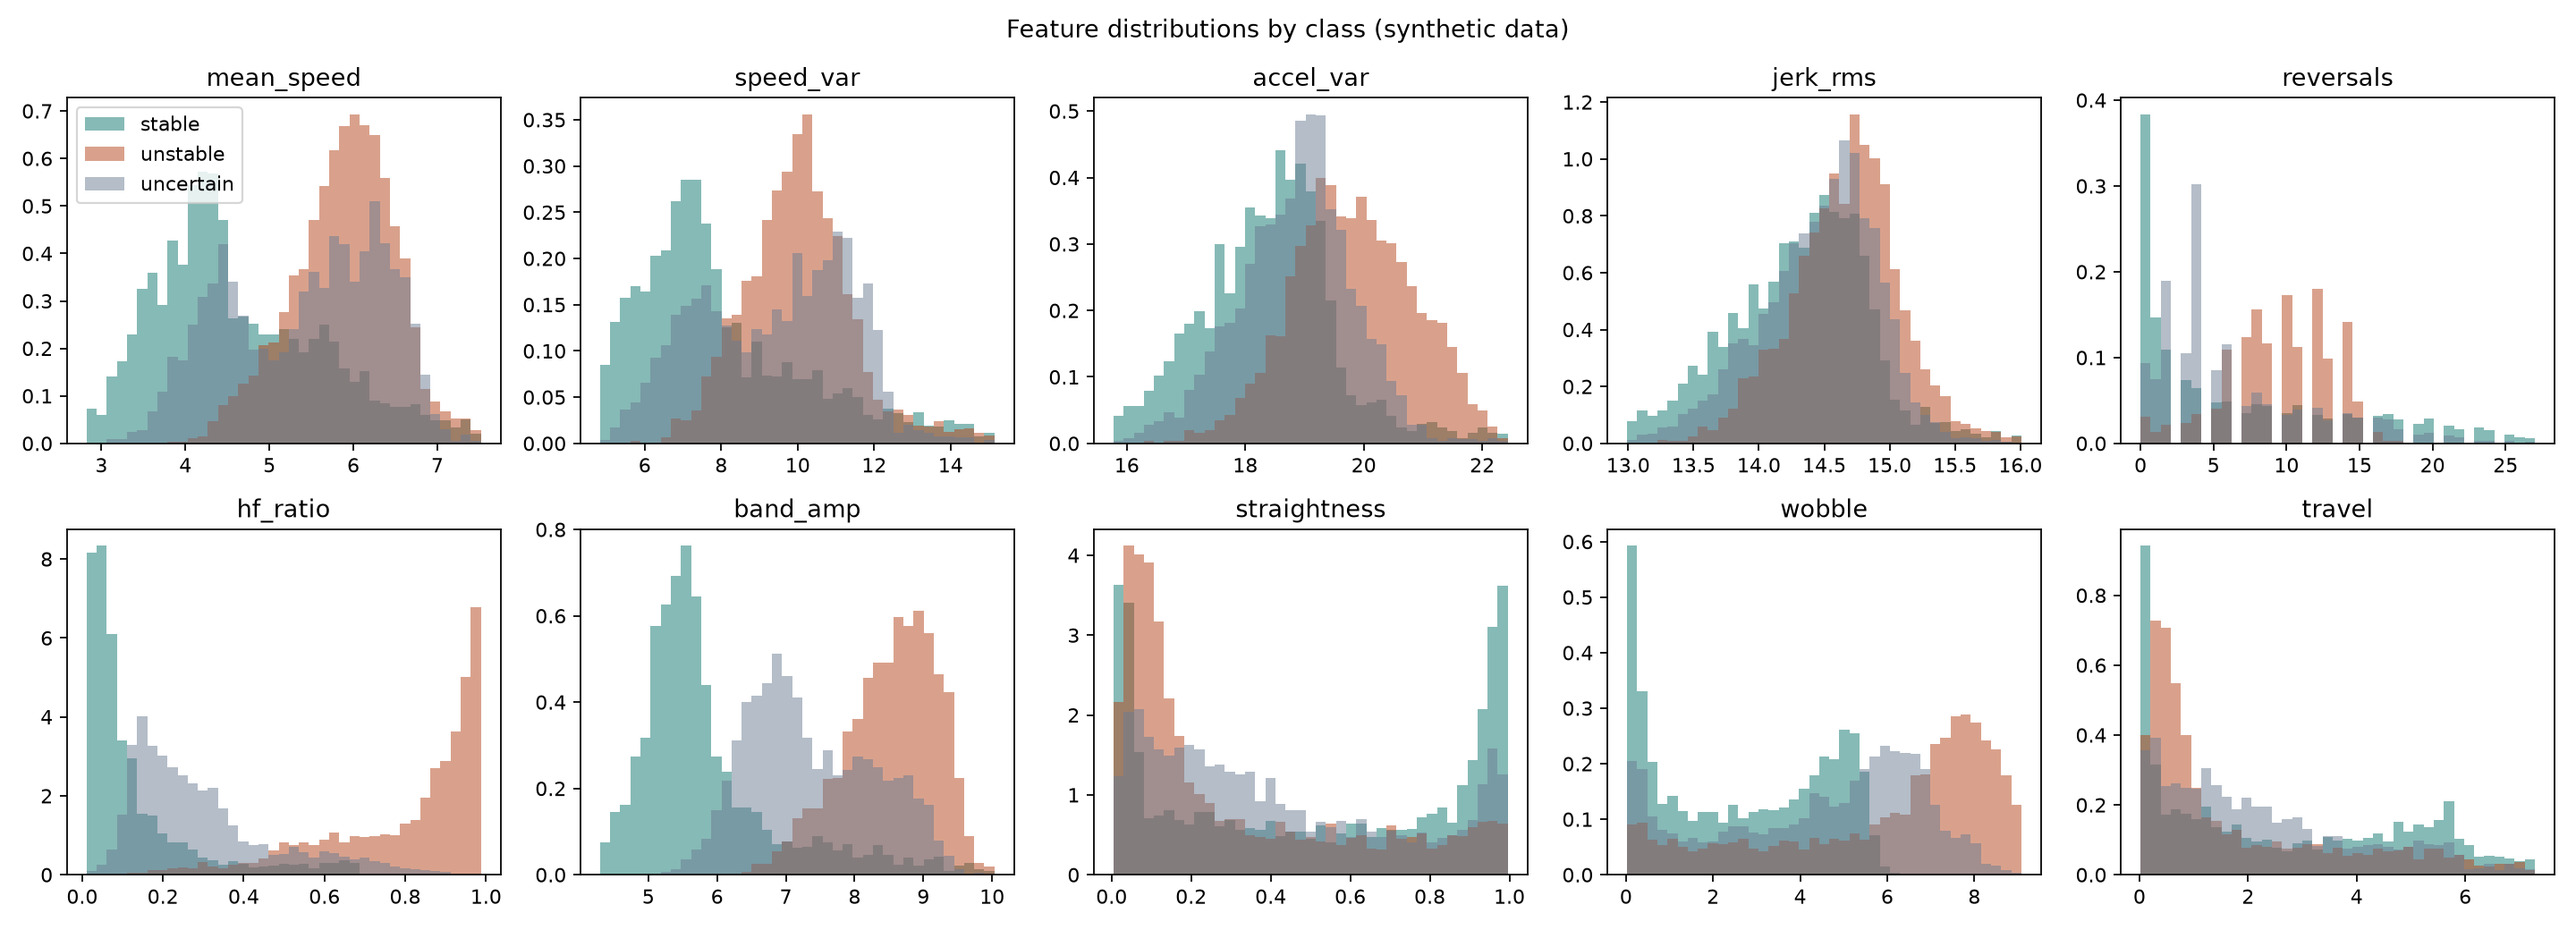
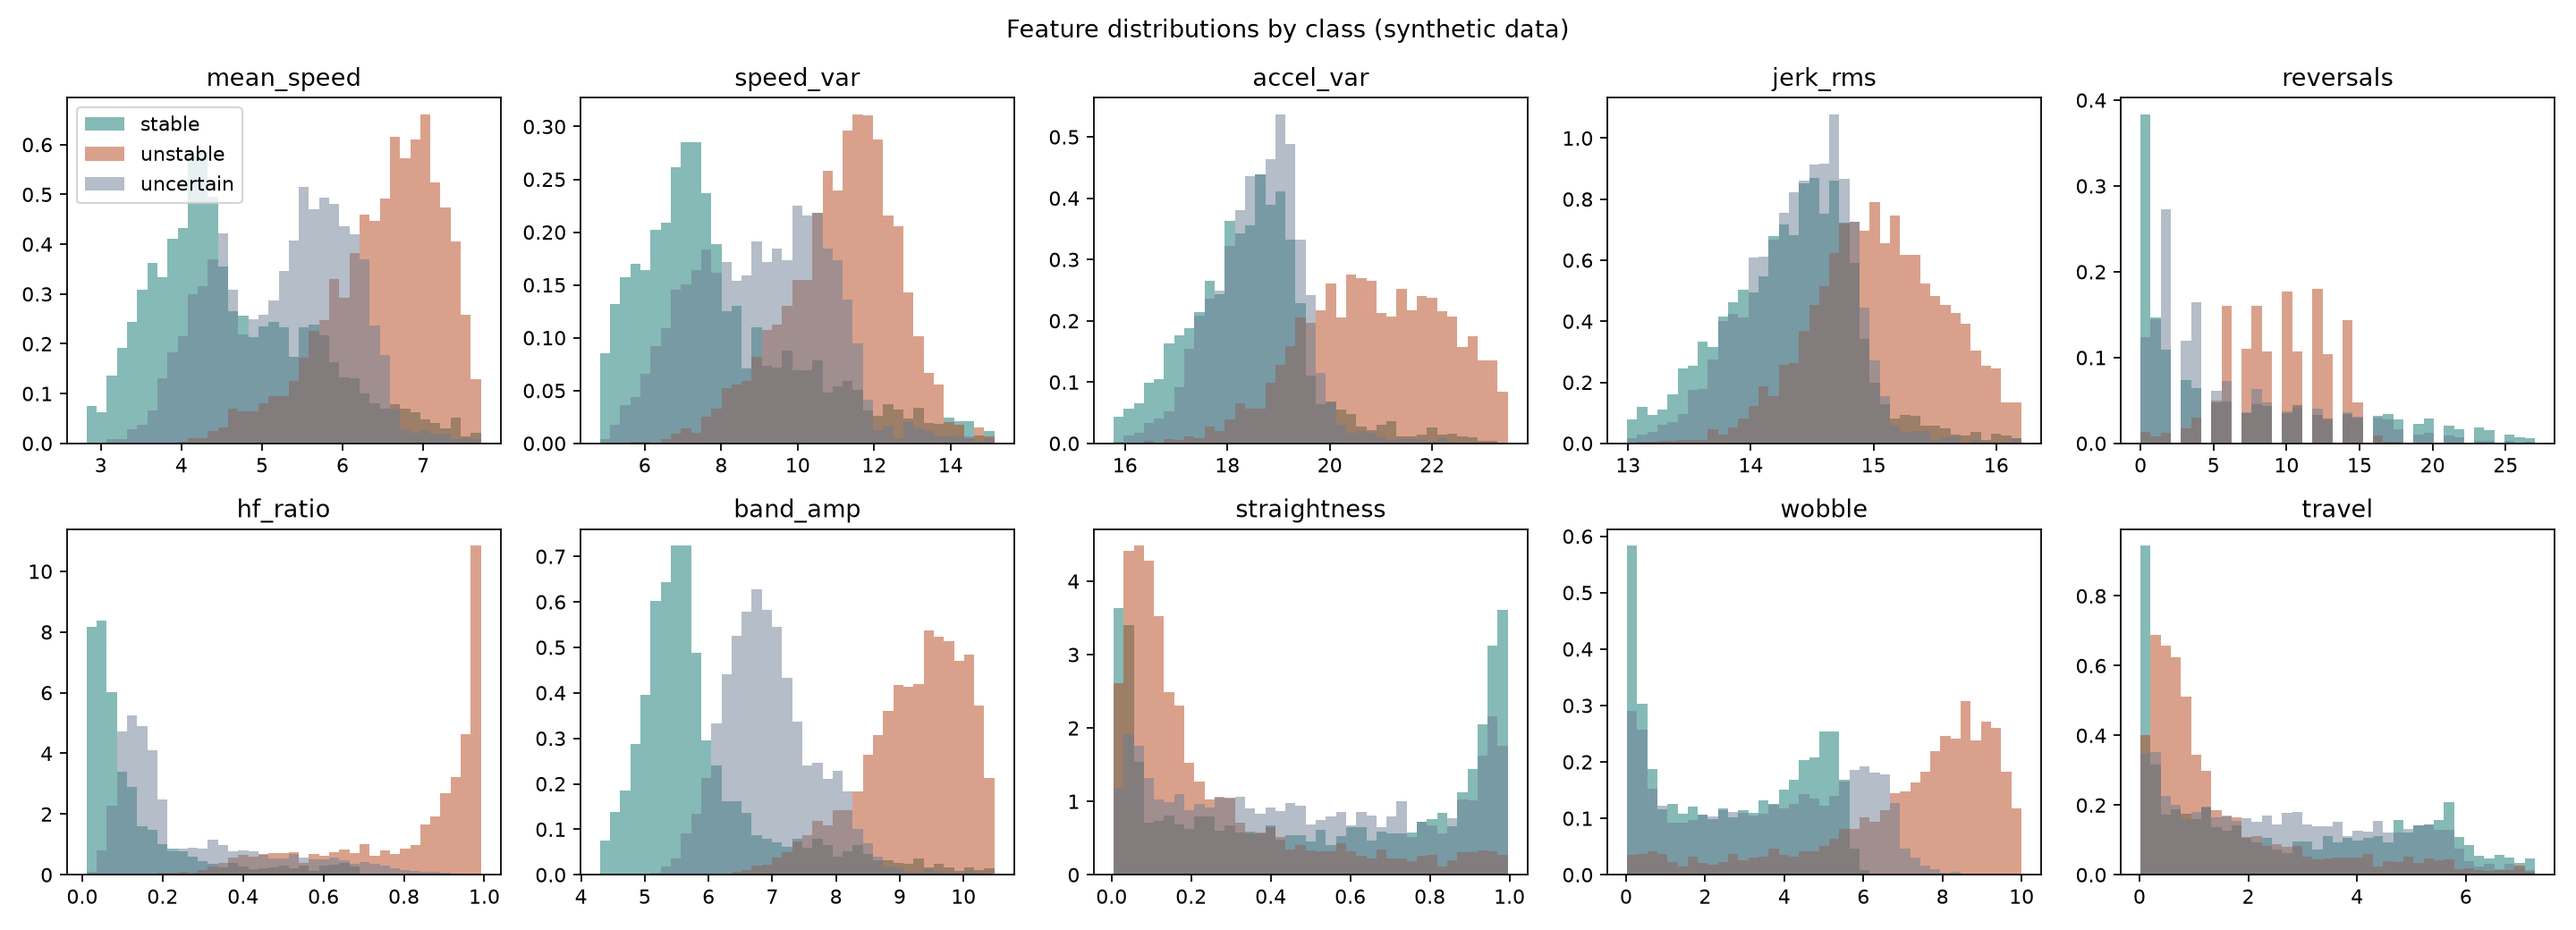
Stronger smoothing for big, sharp movements: straightness-gated 200 ms override, lower filter speed sensitivity, stronger medium level, model trained on shakes up to 50 px

diff --git a/content/controller.js b/content/controller.js
@@ -10,14 +10,14 @@
 //      and stay there for 400 ms. So strength doesn't flicker on and off.
 //   2. Slew limits: strength rises fast (~150 ms to full) when a shake starts,
 //      and falls gently (~600 ms) when it stops, so the cursor never "jumps".
-//   3. Responsiveness override: fast movement in ONE direction (a deliberate
-//      reach) turns smoothing down immediately, whatever the model says.
-//      A tremor goes back and forth, so its net displacement stays small.
+//   3. Responsiveness override: fast, STRAIGHT movement in one direction (a
+//      deliberate reach) turns smoothing down, whatever the model says.
+//      A tremor, even a big one, goes back and forth, so it doesn't count.
 
 (() => {
   const SM = (window.SmoothMouse = window.SmoothMouse || {});
 
-  const LEVEL_STRENGTH = { light: 0, medium: 0.5, strong: 1 };
+  const LEVEL_STRENGTH = { light: 0, medium: 0.75, strong: 1 };
   const RANK = { light: 0, medium: 1, strong: 2 };
 
   const ENTER = 0.55;        // probability needed to go up a level
@@ -26,10 +26,10 @@
   const ATTACK_PER_S = 1 / 0.15;  // strength units per second going up
   const RELEASE_PER_S = 1 / 0.6;  // ...and going down
 
-  // Directed speed (net displacement over ~80 ms) at which we start / finish
-  // handing control back to the raw cursor.
-  const OVERRIDE_FROM = 350; // px/s
-  const OVERRIDE_TO = 1000;  // px/s
+  // Directed speed (see stabilize.js: straight-line speed over 200 ms) at which
+  // we start / finish handing control back to the raw cursor.
+  const OVERRIDE_FROM = 400;  // px/s
+  const OVERRIDE_TO = 1200;   // px/s
 
   const lerp = (a, b, s) => a + (b - a) * s;
   const clamp01 = (v) => Math.min(1, Math.max(0, v));
@@ -83,14 +83,15 @@
     /**
      * One Euro parameters for an effective strength s (0..1).
      *   s = 0   → minCutoff 6 Hz,   beta 0.01   (barely any smoothing)
-     *   s = 1   → minCutoff 0.6 Hz, beta 0.0008 (a 5 Hz tremor is cut by ~85%)
-     * A low beta matters for tremor: a shake is FAST back-and-forth movement,
-     * and a high beta would let it through just because it's fast.
+     *   s = 1   → minCutoff 0.5 Hz, beta 0.0002 (a 5 Hz tremor is cut by ~90%)
+     * A very low beta matters for tremor: a big shake is FAST back-and-forth
+     * movement, and a high beta would let it through just because it's fast.
+     * Deliberate fast moves are handled by the override instead.
      */
     static filterParams(s) {
       return {
-        minCutoff: lerp(6.0, 0.6, s),
-        beta: lerp(0.01, 0.0008, s),
+        minCutoff: lerp(6.0, 0.5, s),
+        beta: lerp(0.01, 0.0002, s),
         dCutoff: 1.0,
       };
     }

diff --git a/content/stabilize.js b/content/stabilize.js
@@ -20,7 +20,7 @@
   const BLEND_FULL_AT = 0.2;   // effective strength where output is 100% filtered
   const ENGAGE_AT = 0.08;      // controller strength that switches to our cursor
   const DISENGAGE_AT = 0.03;   // ...and back to the real cursor (with < 1 px gap)
-  const DIRECTED_WINDOW_MS = 80;
+  const DIRECTED_WINDOW_MS = 200;
   const TRAIL_MS = 3000;
 
   const controller = new Controller();
@@ -58,16 +58,31 @@
   // --- Raw samples → filter -------------------------------------------------
   const recent = []; // last ~150 ms of raw samples, for directed speed
 
-  /** Net displacement over the last ~80 ms divided by time (px/s). */
+  /**
+   * How fast the cursor is heading somewhere ON PURPOSE (px/s).
+   *
+   * = net displacement over the last 200 ms / time, multiplied by how straight
+   *   the path was (net distance / path length).
+   * A deliberate reach goes one way (straight, big net distance) → high.
+   * A shake goes back and forth, even a big, fast one → the path folds back on
+   * itself, straightness is low, and so is this number. (An earlier version
+   * used only 80 ms and no straightness, so big shakes looked like reaches and
+   * switched smoothing off.)
+   */
   function directedSpeed(t, x, y) {
     recent.push({ t, x, y });
-    while (recent.length && recent[0].t < t - 150) recent.shift();
-    let ref = recent[0];
-    for (const s of recent) {
-      if (s.t >= t - DIRECTED_WINDOW_MS) { ref = s; break; }
+    while (recent.length && recent[0].t < t - DIRECTED_WINDOW_MS - 20) recent.shift();
+    let start = 0;
+    while (start < recent.length - 1 && recent[start].t < t - DIRECTED_WINDOW_MS) start++;
+    const ref = recent[start];
+    let path = 0;
+    for (let i = start + 1; i < recent.length; i++) {
+      path += Math.hypot(recent[i].x - recent[i - 1].x, recent[i].y - recent[i - 1].y);
     }
-    const dt = Math.max(t - ref.t, 20) / 1000;
-    return Math.hypot(x - ref.x, y - ref.y) / dt;
+    const net = Math.hypot(x - ref.x, y - ref.y);
+    const straightness = path > 0 ? net / path : 0;
+    const dt = Math.max(t - ref.t, 40) / 1000;
+    return (net / dt) * straightness;
   }
 
   function step(x, y, t, isRealSample) {

diff --git a/ml/synth.py b/ml/synth.py
@@ -12,9 +12,9 @@ Labels (engineering labels, NOT medical diagnoses):
   stable     intentional movement: smooth reaches, small corrections, holds,
              slow drags (plus the tiny jitter every hand has)
   unstable   the same movements plus an involuntary oscillation of
-             4-10 Hz and 2-20 px
+             3.5-10 Hz and 2-50 px
   uncertain  borderline cases: very small oscillations (0.7-2 px), or fast
-             intentional back-and-forth "scribbles" (1.5-3.5 Hz)
+             intentional back-and-forth "scribbles" (1-2.5 Hz)
 
 Run directly to print a quick summary: python ml/synth.py
 """
@@ -129,7 +129,7 @@ def make_base(rng, span_s):
 def make_scribble(rng):
     """Fast intentional back-and-forth (scribbling, shaking to find the cursor)."""
     p0 = rng.uniform([100, 100], [1200, 700])
-    freq = rng.uniform(1.5, 3.5)
+    freq = rng.uniform(1.0, 2.5)  # slower than any tremor we model (>= 3.5 Hz)
     amp = rng.uniform(15, 80)
     angle = rng.uniform(0, 2 * np.pi)
     drift = rng.uniform(-150, 150, size=2)
@@ -193,8 +193,10 @@ def sample_like_browser(rng, f, span_ms, noise_px):
 
 
 # Default involuntary-oscillation ranges for the "unstable" class.
-UNSTABLE_AMP = (2, 20)   # px
-UNSTABLE_FREQ = (4, 10)  # Hz
+# Up to 50 px: big, sharp shakes must be smoothed too (users reported big
+# movements weren't). Down to 3.5 Hz for slower, larger tremors.
+UNSTABLE_AMP = (2, 50)     # px
+UNSTABLE_FREQ = (3.5, 10)  # Hz
 
 
 def make_window(rng, label, cfg, unstable_amp=UNSTABLE_AMP, unstable_freq=UNSTABLE_FREQ):

diff --git a/README.md b/README.md
@@ -110,7 +110,7 @@ python ml/train.py ~/Downloads/smooth-mouse-recording-*.json
 ```
 
 ### How it works
-1. **Synthetic data** (`synth.py`). `stable` = smooth minimum-jerk reaches (from slow moves up to fast 9,000 px/s flicks), overshoot corrections, holds and slow drags. `unstable` = the same plus a 4–10 Hz, 2–20 px oscillation. `uncertain` = very small oscillations (0.7–2 px) or fast intentional scribbles. Sampling copies a real Firefox recording: events every 7–10 ms, whole-ms timestamps with ±1.5 ms jitter, 0.5 px steps, no event when the cursor doesn't move.
+1. **Synthetic data** (`synth.py`). `stable` = smooth minimum-jerk reaches (from slow moves up to fast 9,000 px/s flicks), overshoot corrections, holds and slow drags. `unstable` = the same plus a 3.5–10 Hz, 2–50 px oscillation. `uncertain` = very small oscillations (0.7–2 px) or slow intentional back-and-forth scribbles (1–2.5 Hz). Sampling copies a real Firefox recording: events every 7–10 ms, whole-ms timestamps with ±1.5 ms jitter, 0.5 px steps, no event when the cursor doesn't move.
 2. **Windows** (`shared/config.json`). Each window is 400 ms, resampled to 100 Hz (40 points). Live, a new window is classified every 50 ms. We tried 250 ms first, but a 4 Hz tremor only completes one cycle in 250 ms, and accuracy was about 79% vs 88% at 400 ms.
 3. **Features** (`features.py`). Mean speed, speed variance, acceleration variance, jerk RMS (all log-scaled), direction reversals, the *share* of velocity power in the 4–12 Hz band (FFT), the *strength* of that band (`band_amp`, so a 1 px wobble and a 15 px shake look different), `straightness` (net distance ÷ path length: a flick ≈ 1, a shake ≈ 0), and two combined features, `wobble` = band strength × (1 − straightness) and `travel` = speed × straightness, which let a linear model learn "fast **and** straight = intentional".
 4. **Model** (`train.py`). `StandardScaler` + multinomial `LogisticRegression`. It exports to about 30 numbers that JavaScript can run in a few lines.
@@ -118,11 +118,11 @@ python ml/train.py ~/Downloads/smooth-mouse-recording-*.json
 ### Results (synthetic test set, 1,800 windows)
 | | precision | recall |
 |---|---|---|
-| stable | 0.85 | 0.91 |
-| uncertain | 0.81 | 0.78 |
-| unstable | 0.91 | 0.88 |
+| stable | 0.83 | 0.87 |
+| uncertain | 0.81 | 0.79 |
+| unstable | 0.96 | 0.93 |
 
-**Accuracy: 85.6%** (decision tree for comparison: 87.1%). Most mistakes involve the borderline `uncertain` class, which only moves smoothing one step (light ↔ medium ↔ strong). Calm movement (including fast flicks) is called `unstable` about 2% of the time, and live predictions are smoothed over a few windows so a single odd window can't flip the label.
+**Accuracy: 86.4%** (decision tree for comparison: 88.2%). Most mistakes involve the borderline `uncertain` class, which only moves smoothing one step (light ↔ medium ↔ strong). Calm movement (including fast flicks) is called `unstable` about 2% of the time, and live predictions are smoothed over a few windows so a single odd window can't flip the label.
 
 **A bug we caught (good story for judges):** our first synthetic `unstable` data also had extra random noise. The model scored 88%, but in a live test it called a smooth, real-looking 6 Hz shake `uncertain`: it had learned "noisy = unstable" instead of "oscillating = unstable." We gave every class the same noise, added the `band_amp` feature and a longer window, and now smooth shakes are caught. Lesson: a high test score on synthetic data can hide a shortcut, so test on realistic inputs too.
 
@@ -147,12 +147,12 @@ model probabilities ──► controller ──► smoothing strength 0..1
                            └─ fast movement in one direction → turn smoothing down
 ```
 
-- **One Euro filter** (`filters.js`): a low-pass filter whose cutoff rises with speed. The controller picks its parameters, from barely-there (6 Hz cutoff) to strong (0.6 Hz, which cuts a 5 Hz tremor by about 85%).
+- **One Euro filter** (`filters.js`): a low-pass filter whose cutoff rises with speed. The controller picks its parameters, from barely-there (6 Hz cutoff) to strong (0.5 Hz, with very low speed sensitivity so even big, fast shakes are cut by about 90%).
 - **Controller** (`controller.js`):
-  - **Levels:** light (stable), medium (uncertain) and strong (unstable).
+  - **Levels:** light (stable, 0), medium (uncertain, 0.75) and strong (unstable, 1).
   - **Hysteresis:** it goes up a level as soon as the model is ≥ 55% sure, but only goes down after the evidence drops below 35% for 400 ms.
   - **Gradual strength:** strength rises in about 150 ms and falls over about 600 ms, so nothing jumps.
-  - **Override:** fast movement in one direction (net displacement over 80 ms faster than 350–1,000 px/s) loosens the filter whatever the model says. A tremor goes back and forth, so it doesn't trigger this. A deliberate reach does, which keeps the user in control.
+  - **Override:** fast, *straight* movement loosens the filter whatever the model says: net displacement over 200 ms × straightness (net ÷ path length), from 400 to 1,200 px/s. A deliberate reach triggers it, which keeps the user in control. A shake, even a big, fast one, folds back on itself, so it doesn't.
 - **Steady cursor** (`stabilize.js`): only while smoothing is active do we hide the real cursor and draw our own. Calm movement uses the real cursor, so it has **zero added lag**.
 - **Clicks**: if the steady cursor is over a different element than the real one, the real click is cancelled and a click is sent to the element under the steady cursor.
 
@@ -160,9 +160,17 @@ model probabilities ──► controller ──► smoothing strength 0..1
 
 | Movement | Smoothing | Jitter (raw → steady) | Lag |
 |---|---|---|---|
-| Calm drag / fast flick | off | unchanged | 0 px |
-| 6 Hz, 8 px shake | strong | 5.4 → 0.6 px (**−88%**) | n/a |
-| 5 Hz, 12 px shake | strong | 6.0 → 0.8 px (**−87%**) | n/a |
+| Calm drag / fast flick / 800 px reach | off | unchanged | 0 px |
+| 6 Hz, 8 px shake | strong | 5.4 → 0.5 px (**−91%**) | n/a |
+| 5 Hz, 20 px shake | strong | 10.4 → 1.1 px (**−90%**) | n/a |
+| 4 Hz, 40 px shake | strong | 14.7 → 2.0 px (**−86%**) | n/a |
+| 5 Hz, 60 px shake | strong | 30.8 → 3.5 px (**−89%**) | n/a |
+| 7 Hz, 35 px shake | strong | 36.9 → 2.8 px (**−92%**) | n/a |
+| Sudden 70 px jerks | strong | 16.1 → 1.8 px (**−89%**) | n/a |
+
+**Fix for big, sharp movements:** an earlier version only cut big shakes by 11–37%. Three causes: (1) the "deliberate movement" override measured only 80 ms with no straightness check, so a big shake looked like a reach and turned smoothing off; (2) the filter's speed sensitivity let fast shakes through; (3) the model had never seen shakes over 20 px. We fixed all three, plus made medium smoothing stronger.
+
+**Trade-off we chose:** maximum smoothing. A user *with* a tremor making a fast deliberate reach sees the steady cursor trail by up to about 70 px at peak speed. Lowering the override threshold reduces that lag but smooths sudden jerks less (−68% instead of −89%).
 
 **Limitations:**
 - **Untrusted clicks:** redirected clicks are created by a script (`isTrusted = false`). Most sites accept them, but some ignore them (e.g. file pickers, some payment and anti-bot widgets). Turn off "Click where the steady cursor is" in the popup if a site misbehaves.
